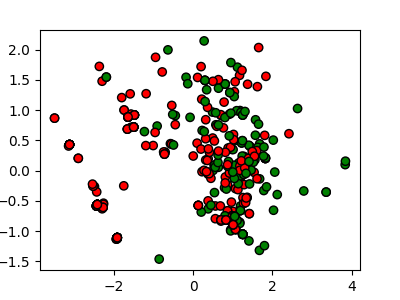
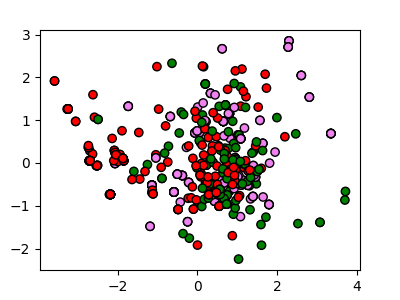
added resistanct muts to PCA

diff --git a/ML/VAElaptop.py b/ML/VAElaptop.py
@@ -195,44 +195,43 @@ def oneHotEncoding(acc, domainNum):
 
 '''Fetch act/deact mutation data'''
 for line in open('../AK_mut_w_sc_feb2023/act_deact_v2.tsv', 'r'):
-    if line.split()[0] == 'uniprot_name':
-        continue
+    if line.split()[0] == 'uniprot_name': continue
     gene = line.split('\t')[0]
     acc = line.split('\t')[1]
     wtAA = line.split('\t')[2]
     mutAA = line.split('\t')[4]
-    if len(wtAA) > 1 or len(mutAA) > 1:
-        continue
+    if len(wtAA) > 1 or len(mutAA) > 1: continue
     position = str(line.split('\t')[3])
     mut_type = line.split('\t')[5]
     # print (acc, kinases[acc].gene, wtAA, position, mutAA)
     kinases[acc].mutations[wtAA+position+mutAA] = Mutation(wtAA+position+mutAA, mut_type)
 
-'''Fetch neutral mutation data'''
-for line in open('../AK_mut_w_sc_feb2023/act_deact_v2.tsv', 'r'):
-    if line.split()[0] == 'uniprot_name':
-        continue
+'''Fetch resistant mutation data'''
+for line in gzip.open('../KA/resistant_mutations_Mar_2023.tsv.gz', 'rt'):
+    if line[0] == '#': continue
     gene = line.split('\t')[0]
-    acc = line.split('\t')[1]
-    wtAA = line.split('\t')[2]
-    mutAA = line.split('\t')[4]
-    if len(wtAA) > 1 or len(mutAA) > 1:
-        continue
-    position = str(line.split('\t')[3])
-    mut_type = line.split('\t')[5]
+    if '_' in gene: gene = gene.split('_')[0]
+    acc = line.split('\t')[2]
+    cosmic_mutation = line.split('\t')[1]
+    wtAA = cosmic_mutation[0]
+    mutAA = cosmic_mutation[-1]
+    if mutAA == 'X': continue
+    if len(wtAA) > 1 or len(mutAA) > 1: continue
+    uniprot_position = line.split('\t')[5].replace('\n', '')
+    mutation = wtAA + uniprot_position + mutAA
+    mut_type = 'R'
     # print (acc, kinases[acc].gene, wtAA, position, mutAA)
-    kinases[acc].mutations[wtAA+position+mutAA] = Mutation(wtAA+position+mutAA, mut_type)
+    if mutation not in kinases[acc].mutations: kinases[acc].mutations[mutation] = Mutation(mutation, mut_type)
+    else: kinases[acc].mutations[mutation].mut_types.append(mut_type)
+    # kinases[acc].mutations[wtAA+position+mutAA] = Mutation(wtAA+position+mutAA, mut_type)
 
 '''Fetch PTM data'''
 hmmPTM = {}
 for line in open('../data/Kinase_psites4.tsv', 'r'):
-    if line[0] == '#':
-        continue
-    if line.split()[2] != 'Pkinase':
-        continue
+    if line[0] == '#': continue
+    if line.split()[2] != 'Pkinase': continue
     acc = line.split('\t')[0]
-    if acc not in kinases:
-        continue
+    if acc not in kinases: continue
     position = int((line.split('\t')[3].split('-')[0])[1:])
     ptm_type = line.split('\t')[3].split('-')[1]
     hmm_position = int(line.split('\t')[4])
@@ -242,7 +241,7 @@ for line in open('../data/Kinase_psites4.tsv', 'r'):
     if hmm_position not in hmmPTM:
         hmmPTM[hmm_position] = []
     hmmPTM[hmm_position].append(ptm_type)
-    print (acc, kinases[acc].gene, position, ptm_type)
+    # print (acc, kinases[acc].gene, position, ptm_type)
 # print (hmmPTM[141])
 # sys.exit()
 
@@ -286,6 +285,7 @@ def getHmmPkinaseScore(wtAA, position, mutAA):
                 str(round(hmmPkinase[hmmPos][mutAA] - hmmPkinase[hmmPos][wtAA], 2)) + "\t" +
                 mut_type)
         '''
+        print (acc, wtAA, position, mutAA)
         return hmmPos, hmmPkinase[hmmPos][wtAA], hmmPkinase[hmmPos][mutAA]
     else:
         print (acc, mutation, 'not found')
@@ -333,7 +333,7 @@ def getAAvector(wtAA, mutAA):
 
 '''Make training matrix'''
 data = []
-mut_type_colors = []
+mut_types_colors = []
 for acc in kinases:
     if len(kinases[acc].mutations) == 0:
         continue
@@ -343,7 +343,7 @@ for acc in kinases:
         position = mutation_obj.position
         mutAA = mutation_obj.mutAA
         wtAA = mutation_obj.wtAA
-        mut_type = mutation_obj.mut_type
+        mut_types = list(set(mutation_obj.mut_types))
         hmmPos, hmmScoreWT, hmmScoreMUT = getHmmPkinaseScore(wtAA, position, mutAA)
         ptm_row = getPTMscore(acc, position)
         aa_row = getAAvector(wtAA, mutAA)
@@ -351,19 +351,22 @@ for acc in kinases:
         print (
             acc +'\t'+ mutation +'\t'+ str(hmmPos) +'\t'+
             str(hmmScoreWT)+'\t' +str(hmmScoreMUT)+'\t'+ ','.join(ptm_row) + '\t' +
-            ','.join(aa_row) + '\t' + mut_type
+            ','.join(aa_row) + '\t' + '\t'.join(mut_types)
             )
         row.append(float(hmmScoreWT))
         row.append(float(hmmScoreMUT))
         row += [int(item) for item in ptm_row]
         row += [int(item) for item in aa_row]
         # row += homology_row
-        # row.append(mut_type)
-        if mut_type == 'A':
-            mut_type_colors.append('green')
-        else:
-            mut_type_colors.append('red')
-        data.append(row)
+        # row.append(mut_types)
+        for mut_type in mut_types:
+            if mut_type == 'A':
+                mut_types_colors.append('green')
+            elif mut_type == 'D':
+                mut_types_colors.append('red')
+            else:
+                mut_types_colors.append('violet')
+            data.append(row)
 
 data = np.array(data)
 # scaler = MinMaxScaler()
@@ -387,9 +390,9 @@ ax.set_position([0.1, 0.1, 0.8, 0.8])
 plt.cla()
 
 # ax.scatter(X[:, 0], X[:, 1], X[:, 2], c=mut_type_colors, cmap=plt.cm.nipy_spectral, edgecolor="k")
-ax.scatter(X[:, 0], X[:, 1], c=mut_type_colors, cmap=plt.cm.nipy_spectral, edgecolor="k")
-#plt.show()
-plt.savefig('pca_plot.png')
+ax.scatter(X[:, 0], X[:, 1], c=mut_types_colors, cmap=plt.cm.nipy_spectral, edgecolor="k")
+plt.show()
+# plt.savefig('pca_plot.png')
 sys.exit()
 
 df = pd.DataFrame()

diff --git a/ML/cls.py b/ML/cls.py
@@ -42,4 +42,4 @@ class Mutation:
         self.position = int(mutation[1:-1])
         self.wtAA = mutation[0]
         self.mutAA = mutation[-1]
-        self.mut_type = mut_type
+        self.mut_types = [mut_type]
